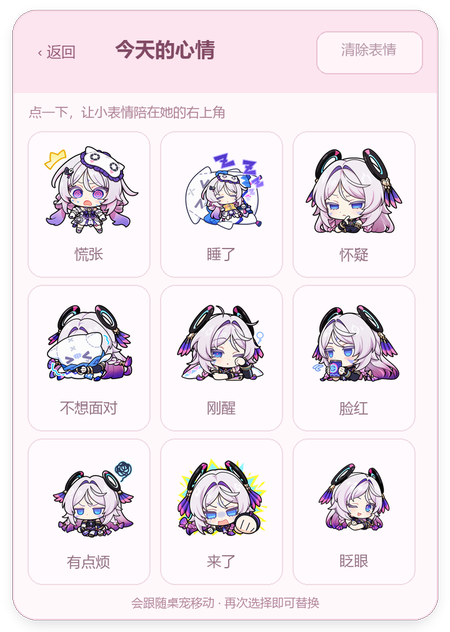
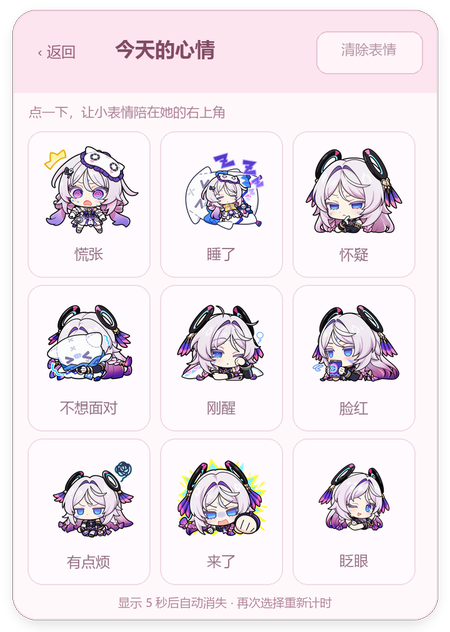
fix: automatically hide expressions after five seconds

Changed region(s): [[0.2489, 0.932, 0.7467, 0.962]]

diff --git a/work/test_expressions.py b/work/test_expressions.py
@@ -4,6 +4,7 @@ import json
 from pathlib import Path
 import sys
 import time
+from unittest.mock import patch
 
 from PIL import Image
 
@@ -162,10 +163,49 @@ try:
     preview.alpha_composite(Image.frombytes('RGBA', (badge.width, badge.height), pixels, 'raw', 'BGRA'),
                             (badge.x-pet.x, badge.y-pet.y+90))
     preview.convert('RGB').save(ROOT/'work'/'expression-pet-preview.jpg')
+    # The timeout uses real elapsed time, including when playback is paused.
+    pet.paused = True
+    pet.show_expression('wink')
+    ready(pet.expression)
+    pump(4.7)
+    assert pet.expression_key == 'wink', 'Expression disappeared before five seconds'
+    pet.menu(picker=True)
+    ready(pet.popup)
+    pump(.4)
+    assert pet.expression is None and pet.expression_key is None
+    assert pet.expression_expires_at is None
+    assert pet.popup.last_state['expression'] is None, 'Picker retained an expired selection'
+    pet.popup.close()
+    pet.show_expression('panic')
+    ready(pet.expression)
+    original_deadline = pet.expression_expires_at
+    with patch.object(app.time, 'perf_counter', return_value=original_deadline-1):
+        pet.show_expression('sleep')
+    ready(pet.expression)
+    replacement_deadline = pet.expression_expires_at
+    assert replacement_deadline == original_deadline+4
+    with patch.object(app.time, 'perf_counter', return_value=original_deadline+.01):
+        pet.tick()
+    assert pet.expression_key == 'sleep', 'Previous selection expired the replacement'
+    pet.show_expression('sleep')
+    ready(pet.expression)
+    assert pet.expression_expires_at != replacement_deadline, 'Reselecting did not restart the timer'
+    deadline = pet.expression_expires_at
+    pet.resize(.7)
+    ready(pet.expression)
+    assert pet.expression_expires_at == deadline, 'Resizing restarted the timer'
+    with patch.object(app.time, 'perf_counter', return_value=deadline):
+        pet.tick()
+    assert pet.expression is None, 'Expression survived its expiry boundary'
+    pet.show_expression('hello')
+    pet.show_expression(None)
+    assert pet.expression_expires_at is None, 'Manual clear left a timer active'
     report = {'all_9_selected': True, 'gallery_keeps_animation_playing': True,
               'clear_back_keyboard': True, 'follows_move_resize_action': True,
               'stable_between_frames': True, 'monitor_edges_visible': True,
-              'click_through_no_activate': True, 'gdi_handles_before': before,
+              'click_through_no_activate': True, 'five_second_timeout_while_paused': True,
+              'replacement_reselection_restart_timeout': True, 'resize_preserves_timeout': True,
+              'expired_picker_selection_cleared': True, 'gdi_handles_before': before,
               'gdi_handles_after': after, 'small_image_cache': pet.stickers.image.cache_info().currsize}
     (ROOT/'work'/'expression-validation.json').write_text(json.dumps(report, indent=2)+'\n')
     print(json.dumps(report, indent=2), flush=True)

diff --git a/desktop_pet.py b/desktop_pet.py
@@ -123,6 +123,7 @@ class DesktopPet:
         self.popup = None
         self.expression = None
         self.expression_key = None
+        self.expression_expires_at = None
         self.stickers = StickerLibrary(APP_DIR/'assets'/'expressions', RESOURCE_DIR/'assets'/'expressions')
         self.displayed_frame = None
         self.hwnd = None
@@ -249,6 +250,8 @@ class DesktopPet:
             if self.qa_target!=name:
                 self.qa_target=name
                 self.switch(name,False)
+        if self.expression_expires_at is not None and now>=self.expression_expires_at:
+            self.show_expression(None)
         if self.popup:self.popup.refresh()
         if self.paused:return
         previous=self.current
@@ -283,7 +286,7 @@ class DesktopPet:
         animation=self.animations[self.current]
         index=min(bisect_right(animation['endpoints'],self.elapsed%animation['duration']),len(animation['frames'])-1)
         self.draw(index)
-        if self.expression_key:self.show_expression(self.expression_key)
+        if self.expression_key:self.show_expression(self.expression_key,reset_timer=False)
         # Decoding resized frames takes real time; it must not advance media.
         self.last_tick=time.perf_counter()
         logging.info('Resize %s',self.scale)
@@ -298,7 +301,7 @@ class DesktopPet:
         self.popup=(ExpressionPicker if picker else PinkMenu)(self,sys.modules[__name__])
         self.popup.open(p.x,p.y)
 
-    def show_expression(self,key):
+    def show_expression(self,key,*,reset_timer=True):
         if key is not None:self.stickers.path(key)
         if self.expression:
             self.expression.close()
@@ -308,6 +311,10 @@ class DesktopPet:
             self.expression=ExpressionBadge(self,sys.modules[__name__],key)
             self.expression.open(self.x,self.y)
             self.expression.follow()
+            if reset_timer or self.expression_expires_at is None:
+                self.expression_expires_at=time.perf_counter()+5.0
+        else:
+            self.expression_expires_at=None
         logging.info('Expression %s',key)
 
     def menu_command(self,command,position=None):

diff --git a/expressions.py b/expressions.py
@@ -86,7 +86,7 @@ def render_picker(library, state, hover=None, dpi=1):
         if active:
             rounded((right-19, top+5, right-5, top+19), 7, '#cd84a4')
             text(right-12, top+4.5, '✓', 10, '#ffffff', True, 'mt')
-    text(180, 478, '会跟随桌宠移动 · 再次选择即可替换', 9.5, '#b18498', anchor='mt')
+    text(180, 478, '显示 5 秒后自动消失 · 再次选择重新计时', 9.5, '#b18498', anchor='mt')
     return canvas.resize((round(360*dpi), round(506*dpi)), Image.Resampling.LANCZOS)
 
 

diff --git a/README.md b/README.md
@@ -8,7 +8,7 @@
 - 鼠标滚轮：调整大小。
 - 右键角色：选择站立、喝饮料、读书、自动轮换、暂停、大小或退出。
 - 右键菜单采用浅粉色卡片、细线图标和选中提示；打开时动画继续播放。方向键或 Tab 选择、Enter 执行、Esc 收起，点击菜单外也会收起。
-- 右键 → **表情**：九宫格展示慌张、睡了、怀疑、不想面对、刚醒、脸红、有点烦、来了和眨眼。点击后显示在桌宠右上角，保持显示，直到替换、清除或退出。
+- 右键 → **表情**：九宫格展示慌张、睡了、怀疑、不想面对、刚醒、脸红、有点烦、来了和眨眼。点击后显示在桌宠右上角，5 秒后自动消失；再次选择任意表情会重新计时。暂停动画时也会正常到时消失。
 - 表情会随桌宠拖动、缩放和切换动作调整位置；透明贴图不拦截鼠标，靠近屏幕边缘时保持在可见范围内。在表情面板点击“清除表情”即可收起。
 - 空格：暂停或继续。Esc：退出。
 

diff --git a/docs/RELEASE_NOTES.md b/docs/RELEASE_NOTES.md
@@ -4,7 +4,7 @@
 - 保留原生 60 FPS 帧与无损画质，动作自然结束后衔接下一组。
 - 修复站立脚底倒影闪动和背后两条飘带的透明轮廓。
 - 新增柔和粉色右键菜单，支持动作选择、自动轮换、暂停和大小调整。
-- 右键选择“表情”展示九宫格；内置 9 款透明表情，点击后显示在桌宠右上角，随拖动、缩放和动作调整位置，可在面板清除。
+- 右键选择“表情”展示九宫格；内置 9 款透明表情，点击后显示在桌宠右上角，5 秒后自动消失，再次选择重新计时。表情随拖动、缩放和动作调整位置，也可在面板手动清除。
 - 表情不拦截鼠标，缩略图按需在后台解码，缓存数量受限。
 - 改为按需读取和有限帧缓存，默认尺寸本机回归工作集峰值约 45 MiB，大号约 72 MiB。
 
